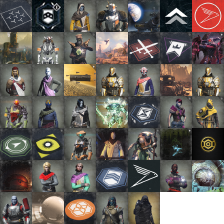
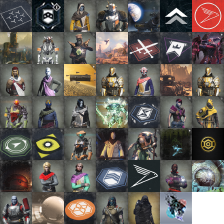
update reward sources for CoE

Changed region(s): [[0.6875, 0.8438, 0.875, 1.0]]

diff --git a/src/app/shared/service/consts.js b/src/app/shared/service/consts.js
@@ -708,6 +708,10 @@ app.service('consts', [
                             label: gettextCatalog.getString('Prison of Elders')
                         },
                         {
+                            hash: "3739898362",
+                            label: gettextCatalog.getString('Challenge of the Elders')
+                        },
+                        {
                             hash: "3107502809",
                             label: gettextCatalog.getString('Raid - Crota\'s End')
                         },

diff --git a/src/asset/less/reward-source.less b/src/asset/less/reward-source.less
@@ -6,7 +6,7 @@
 
 .ggg-source {
     background-color: #000;
-    background-image: url(../image/reward-source.png);
+    background-image: url(../image/reward-source.png?2);
     background-repeat: no-repeat;
     display: block;
 
@@ -196,5 +196,9 @@
 
     &.ggg-source-941581325 {
         .stitches-ggg-source(-128px, -192px, 32px, 32px);
+    }
+
+    &.ggg-source-3739898362 {
+        .stitches-ggg-source(-160px, -192px, 32px, 32px);
     }
 }
